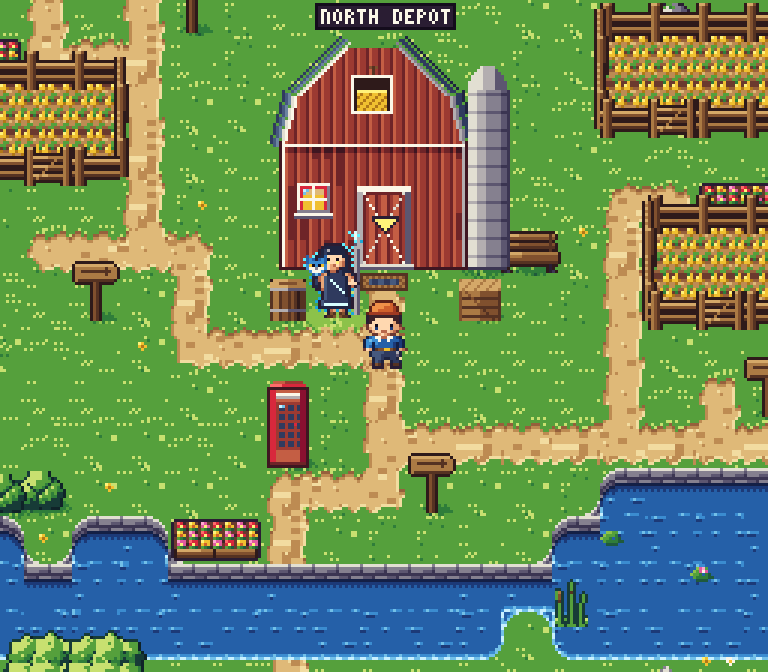
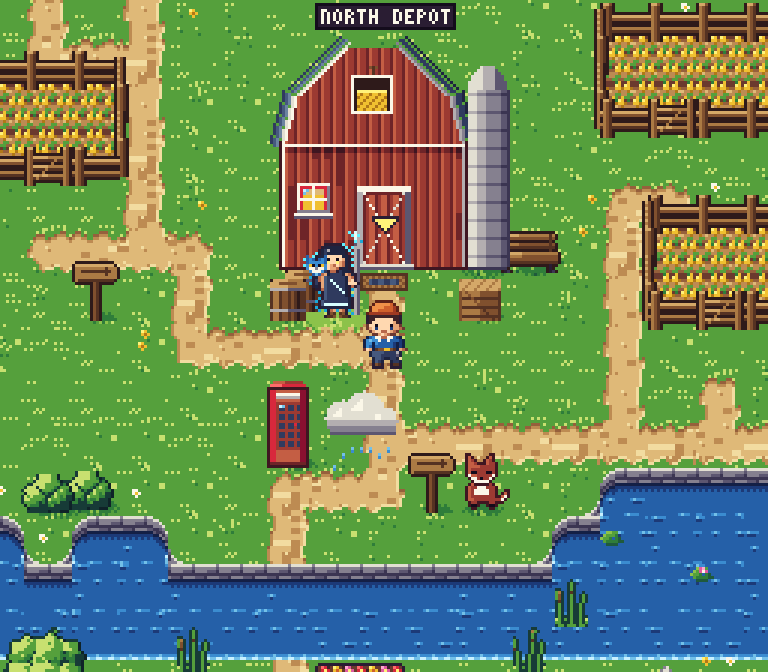
Overworld: path verges, paired barrels, no props on water banks, one signpost per stretch, weather clear of doors
Tufts and flowers along the path verges; barrels stand in pairs; no prop right above water or a
field; signposts at least ten steps apart; the rain cloud keeps six steps from every door (it hung
over a doorway in the fixture world; a test now checks it in every theme). Overworld notes: the
dressing, collisions, portraits, frame times and the critique rounds. Every screenshot regenerated.

diff --git a/web/src/game/world/gen.ts b/web/src/game/world/gen.ts
@@ -531,7 +531,7 @@ export class WorldMap {
     const lmSpots = byVillage(6, spots);
     for (const l of set.landmarks)
       for (let n = 0; n < l.count * fill; n++) {
-        const s = lmSpots.find((q) => (l.sky ? this.freeRect(q.x, q.y, l.fw, l.fh, 0) : this.freeRect(q.x, q.y, l.fw, l.fh, 1)) && doorDist(q.x, q.y) >= 3);
+        const s = lmSpots.find((q) => (l.sky ? this.freeRect(q.x, q.y, l.fw, l.fh, 0) : this.freeRect(q.x, q.y, l.fw, l.fh, 1)) && doorDist(q.x, q.y) >= (l.sky ? 6 : 3)); // weather keeps clear of the doorways
         if (!s) break;
         const ax = s.x * TILE + l.fw * 8, ay = (s.y + l.fh) * TILE - 1;
         if (l.sky) {
@@ -661,14 +661,16 @@ export class WorldMap {
     const { rx, w, h, R, doors, theme, fronts, fill, seed } = c;
     const x0 = rx + BORDER + 1, x1 = rx + w - BORDER - 1, y0 = BORDER + 1, y1 = h - BORDER - 1;
     const isPath = (x: number, y: number) => this.at(x, y) === 'P' || this.at(x, y) === 'B';
-    // a tile right above a field holds the field's top fence
-    const room = (x: number, y: number) => this.free(x, y) && this.at(x, y + 1) !== 'F' && this.at(x, y + 1) !== 'C';
+    // a tile right above a field holds the field's top fence, one right above water its bank
+    const room = (x: number, y: number) => this.free(x, y) && !['F', 'C', 'W'].includes(this.at(x, y + 1) ?? 'G');
     const awayFromDoors = (x: number, y: number) => !doors.some((d) => Math.abs(x - d.x) <= 2 && y >= d.y - 1 && y <= d.y + 3);
     const placed: Pos[] = [];
     const spaced = (x: number, y: number, d: number) => !placed.some((p) => Math.abs(p.x - x) <= d && Math.abs(p.y - y) <= d);
     const prop = (sprite: string, x: number, y: number, shadow?: readonly [number, number, number, number], dx = 8, dy = 14) => {
       this.flag(x, y, SOLID | RESERVED);
       placed.push({ x, y });
+      // barrels stand in pairs, the second a step behind
+      if (sprite === 'barrel') this.objects.push({ sprite, x: x * TILE + dx + 5, y: y * TILE + dy - 3, kind: 'prop' });
       this.objects.push({ sprite, x: x * TILE + dx, y: y * TILE + dy, kind: sprite === 'bush' ? 'tree' : 'prop', ...(shadow ? { shadow } : {}) });
     };
     const decor = (sprite: string, x: number, y: number, k: number) => {
@@ -745,10 +747,11 @@ export class WorldMap {
     // Signposts at junctions: a path tile with three or four path neighbours gets one on a free corner beside it.
     const junctions = shuffled(20, (x, y) => this.at(x, y) === 'P' && STEPS.filter((s) => isPath(x + s.x, y + s.y)).length >= 3 && awayFromDoors(x, y));
     let signs = 0;
+    const signAt: Pos[] = [];
     for (const j of junctions) {
-      if (signs >= 2 + 2 * fill) break;
-      const at = [[-1, -1], [1, -1], [-1, 1], [1, 1]].map(([dx, dy]) => ({ x: j.x + dx!, y: j.y + dy! })).find((q) => room(q.x, q.y) && spaced(q.x, q.y, 3));
-      if (at) prop('signpost', at.x, at.y, [2, 0, 5, 2]), signs++;
+      if (signs >= 1 + fill) break;
+      const at = [[-1, -1], [1, -1], [-1, 1], [1, 1]].map(([dx, dy]) => ({ x: j.x + dx!, y: j.y + dy! })).find((q) => room(q.x, q.y) && spaced(q.x, q.y, 3) && !signAt.some((p) => Math.abs(p.x - q.x) + Math.abs(p.y - q.y) < 10));
+      if (at) signAt.push(at), prop('signpost', at.x, at.y, [2, 0, 5, 2]), signs++;
     }
     // Benches on the grass beside a straight east-west path, facing it.
     let benches = 0;
@@ -825,6 +828,12 @@ export class WorldMap {
           placed.push({ x, y });
         }
       }
+    // Path verges: tufts and flowers in the grass along the paths, as the art direction lets the grass lean over them.
+    const verge = groundTheme(theme).flora;
+    for (let y = y0; y < y1; y++)
+      for (let x = x0; x < x1; x++)
+        if (this.free(x, y) && STEPS.some((st) => isPath(x + st.x, y + st.y)) && R(x, y, 55) < 0.3)
+          decor(R(x, y, 56) < 0.5 ? 'tuft' : verge[Math.floor(R(x, y, 57) * verge.length)]!, x, y, 58);
     // Wildflower patches: a few tiles of one flower, thick, as the art direction scatters them by the paths.
     const flora = groundTheme(theme).flora.filter((f) => f !== 'stone' && f !== 'tuft');
     let patches = 0;

diff --git a/web/tests/world-gen.test.ts b/web/tests/world-gen.test.ts
@@ -372,3 +372,18 @@ describe('a stream', () => {
     expect(wide).toBeGreaterThan(0);
   });
 });
+
+describe('weather', () => {
+  it('the rain cloud never hangs over a doorway (the fixture world in every theme)', async () => {
+    const { default: world } = await import('../../fixtures/world.json');
+    for (const theme of ['debug', 'industrial-robotic', 'farm', 'business', 'pagodas-nature', null]) {
+      const m = new WorldMap(world.sites.map(({ site: s }) => ({ id: s.id, name: s.name, latitude: s.latitude, longitude: s.longitude, theme: theme ?? s.iso_theme, country: 'GB' })));
+      const clouds = m.objects.filter((o) => o.sprite === 'rain_cloud');
+      expect(clouds.length).toBeGreaterThan(0);
+      // the cloud is drawn 28 px above its footprint's bottom edge; its footprint is two tiles wide
+      for (const o of clouds)
+        for (const d of m.doors)
+          expect(Math.max(Math.abs(Math.floor(o.x / 16) - d.x), Math.abs(Math.floor((o.y + 28) / 16) - d.y)), `${theme}: cloud near door ${d.siteId}`).toBeGreaterThanOrEqual(5);
+    }
+  });
+});

diff --git a/web/art/overworld/README.md b/web/art/overworld/README.md
@@ -77,16 +77,32 @@ Same sites, same map, in any order (`web/tests/world-gen.test.ts`).
    Longitudes wrap at the 180th meridian. Sites without GPS stand in a square block below the others. Then each
    site, nearest the centre first, takes the free place nearest its own, so buildings never overlap, however many
    sites share one point (200 sites at one point make a region about 200 tiles square).
-3. **Filling the space.** A forest border; a canal with a sandy bank, a moored boat and reeds (or a pond); paths
-   joining every site of the region (a minimum spanning tree over the doors, routed around buildings, crossing water
-   straight as a bridge); fenced fields; the country's landmarks and villagers; groves and single trees; flowers.
+3. **Filling the space** (design rule 18: no empty world; the bar is the art direction's scene). A forest border; a
+   canal with a sandy bank, a moored boat and reeds, or a pond with a stream running from it out under the forest
+   (east-west, so paths cross it on bridges), with reeds and lily pads; both a few rows below the first building, so
+   the village has its water. Paths joining every site of the region (a minimum spanning tree over the doors, routed
+   around buildings, crossing water straight as a bridge). Fenced fields of four to six by two or three tiles, each
+   with a gate in its bottom fence. The country's landmarks and villagers. Then the dressing:
+   - side paths from the network to the front of every landmark and to every field gate, and two lanes that leave
+     the network for the woods, so the paths branch and meet;
+   - a signpost at a junction, benches beside straight stretches of path, short fences along paths;
+   - a yard in front of each building in its theme (crates, paired barrels, a cooling unit, a cable drum, a bench, a
+     rock), on the front corners and against the east wall;
+   - two-tile flower beds beside paths (warm colours; cool ones in the business and pagoda themes), rock clusters
+     with small stones, clumps of bushes with flowers at their feet, patches of wildflowers;
+   - tufts and flowers along the path verges; groves; single trees and pairs at uneven gaps, some with a bush.
+
+   Fields, landmarks and the dressing go nearest the buildings first (a sweep from the doors), so the village round
+   each door is the busiest part, and a steady scatter of rocks, bushes and flowers keeps the rest from going bare.
    How much goes down scales with the region's area.
 4. **Distant regions** sit side by side on one map, but no path joins them and the camera never leaves the player's
    region. Each region of a world with more than one has an **airfield pad, a placeholder**: a label over it names
    where it goes, and stepping on it takes the player to the next region's pad, with a card saying where, until
    flights replace it. A canal that no path crossed gets one crossing, so both banks can be reached.
-5. **Collisions.** Buildings (except the door tile), water (except bridges), trees, fields with their fences,
-   landmarks, villagers and the guide block the way. Walking onto a door enters that site's first room through the
+5. **Collisions.** Buildings (except the door tile), water (except bridges), trees, fields with their fences and
+   gates, landmarks, villagers, the guide and every prop (signposts, benches, fences, yards, beds, rocks, bushes)
+   block the way. A prop never stands on a path, a bridge, a door or the tiles kept free in front of a door, so every
+   door stays reachable along the paths (`web/tests/world-gen.test.ts` walks it in every country set and theme). Walking onto a door enters that site's first room through the
    game shell's scene switcher; leaving puts the player on the tile in front of the same door.
 6. **A saved place after an edit in NetBox.** Adding, moving or deleting a site, or changing its GPS or country,
    regenerates the map. A saved tile is kept only if the player can walk on from it to the region's doors (a reach
@@ -126,25 +142,36 @@ The eaves cast a two-pixel shadow on the wall below them (one ramp step darker),
 Ilatea's, Byte's and Nocti's dialogue portraits start as hand-written SVG at 768 x 768 (`../portraits/*.svg`, from the
 traits in `docs/art/guide-ilatea.md`), painted the way a 16-bit portrait is: flat tones (lit, base, shade) with a dark
 outline, no soft gradients, framed close so the face fills the small sizes (Ilatea's scene is scaled 1.35x about her
-face). `portrait.mjs` rasterises each in headless chromium, downscales it with an area filter (exact box averages, 12x
-to 64 x 64 and 8x to 96 x 96), maps it to the palette with no dither (ordered dither was tried and is shown in the
-sheet: it turned the skin and the background into noise at this size), using only the ramps the portrait is painted
-with (a skin tone never lands on path earth), then applies the hand clean-up pass: pixel edits stored as data in
-`../portraits/cleanup/<who>-<size>.txt`, one file for every portrait at both sizes, each step headed by its reason.
-The format is one edit per line: `x,y colour` sets a pixel, `x0,y0 x1,y1 colour` a rectangle, `## why` starts a step.
-The steps: Ilatea's brows as one level line, eyes as lash line / white corner / gold iris / black pupil, the smile with
-upturned corners, one clean line per silver strand, holes and grey specks out of the hair, the circlet gem as a lit
-diamond; the owls' eyes (iris ring, round pupil, glint), the beak as an outlined triangle with a sharp tip, clean disc
-rims and chevrons, the toes, Byte's sheen kept, Nocti's goggles and sceptical lid. `portrait-pipeline.png` shows source,
+face). Ilatea's hair is the guide's first variant: dark slate, flowing like streams of code, with a few silver strands
+like fibre (the art direction's own colours for it, the slate ramp), never purple.
+
+`portrait.mjs` rasterises each in headless chromium, downscales it with an area filter (exact box averages, 12x to
+64 x 64 and 8x to 96 x 96), maps it to the palette with no dither (ordered dither is shown in the sheet for
+comparison: it turns the skin and the background into noise at this size), using only the ramps the portrait is
+painted with (a skin tone never lands on path earth), then applies the hand clean-up pass: pixel edits stored as data
+in `../portraits/cleanup/<who>-<size>.txt`, one file for every portrait at both sizes, each step headed by its reason.
+The format is one edit per line: `x,y colour` sets a pixel, `x0,y0 x1,y1 colour` a rectangle, `x0,y0 x1,y1 a>b`
+recolours `a` to `b` inside a rectangle (or `x,y a>b` at one pixel), `## why` starts a step.
+
+The clean-up starts from the no-dither mapping and only makes single, deliberate marks; nothing is drawn across the
+skin. Ilatea: each eye a lash line with a dark wing at the outer corner, white corners, a gold iris round a black
+pupil with a glint on its upper left and the lower iris lit; level brows in the hair's dark slate; the nose as one
+shade step down its shaded side; a short smile with upturned corners; the face and neck outlined in dark skin instead
+of grey; grey specks where hair and skin blended taken out. The owls: flat face discs (no specks), round pupils with a
+glint, the sceptical lid of Nocti as one flat shape with one lit run, deliberate chevrons on the breast instead of
+grey halos, Byte's beak with a clean outline and his sheen kept as one cyan arc. `portrait-pipeline.png` shows source,
 raw downscale, both palette mappings and the cleaned result.
 
 ### Frame times
 
 `web/e2e/overworld.spec.ts` walks the player in the real game at 768 x 672 (3x) with chromium's CPU throttled 4x and
-writes `perf.json`: frame interval p95 17.3 ms (60 fps), composing a frame 2.2 ms median, 2.8 ms p95, no layout shift.
-A frame looks only at the objects near the camera (`web/tests/world-engine.test.ts` checks that a world of 200 sites
-looks at no more than a world of 3): in node, unthrottled, composing a frame of a 200-site world (122,000 objects)
-takes 0.6 ms median, as for 3 sites.
+writes `perf.json`: frame interval p95 17.5 ms (60 fps), composing a frame 2.6 ms median, 4.7 ms p95, no layout shift
+(composing p95 was 3.2 to 4.7 ms over five runs on the dressed map, 2.8 ms before it). The dressing added about a
+quarter more objects; a frame still looks only at the objects near the camera
+(`web/tests/world-engine.test.ts` checks that a world of 200 sites looks at no more than a world of 3): in node,
+unthrottled, composing a frame of a 200-site world (152,000 objects) takes 0.6 ms median, as for 3 sites. Building the
+map of that world takes about 1.4 s once at load (0.8 s before the dressing; the side paths and lanes are routed per
+region).
 
 ## Art notes
 
@@ -188,10 +215,33 @@ front-facing roof rule, fix them, render again.
    flowers; rounded water and sand shapes, path wobble and curved corners, the canal under the forest; stacked side
    fences; her eyes open (two rows of gold iris, a glint on each pupil), the forehead light on a slant.
 
+6. **Portraits from the no-dither mapping** (the six portraits at 10x with a pixel grid, beside the art direction's
+   portrait).
+   Weaknesses: the hand pass drew pale lines across Ilatea's face, brows and hair, so the cleaned portrait read worse
+   than the plain mapping, worst at 96; her hair was purple, outside the guide's "dark, with silver strands"; her face
+   had a grey outline; Nocti's face disc at 64 was speckled; the owls' pupils had no glint and Byte's discs a grey halo.
+   Fixes: every clean-up file rewritten from the no-dither result with single marks only (above); the hair repainted
+   in dark slate with short silver strands inside the mass instead of two long lines framing the face; a recolour
+   edit for sweeping specks out of an area without touching anything else.
+7. **Density** (every theme and country at 3x beside the art direction's scene; 6x crops of both).
+   Weaknesses: open grass with one landmark and one straight path; no water in view of any building; no fences or
+   gates except round the two fields; no props by the buildings; trees only in groves or alone at even gaps.
+   Fixes: the dressing (above), fields and water placed near the village, side paths and lanes, uneven tree spacing.
+8. **Density, second look** (same views).
+   Weaknesses: three signposts in one screen; flower beds sat on the water's bank and on the fields' top fences; the
+   flower bed was a thin strip; the stream left the pond with a notch of grass; stretches far from the doors were
+   still bare.
+   Fixes: at most one signpost per ten steps of path; no prop right above water or a field; a taller bed with a timber
+   edge and three rows of flowers; the pond's corner joins the stream; a steady scatter of rocks, bushes and flowers
+   away from the village; tufts and flowers along the path verges; barrels in pairs; the rain cloud, which now came
+   down near the village with the other landmarks and hung over a doorway, keeps six steps from any door.
+
 ## Where it still falls short
 
-- The rain cloud casts no shadow; landmarks are not joined to the paths; the tulip field's lower fence hides its last
-  row.
+- The rain cloud casts no shadow; the tulip field's lower fence hides its last row.
+- The ground is flat: the art direction's scene has a raised bank with a stone wall and steps, which the map has no
+  height for yet.
+- A big world takes longer to build at load since the dressing (see Frame times).
 - The pond's outline follows whole tiles, so its curves step at tile corners; the quay stones follow those steps.
 - Nothing points at buildings off screen yet (a map and a marker to the next small fix come with the quest log).
 - Phones get 1x (256 px wide) because only whole-number scales are used.

diff --git a/README.md b/README.md
@@ -110,7 +110,8 @@ Open `http://127.0.0.1:5173/` (no `?view=`) with `make dev` or `make dev-fixture
   (off by default).
 * **Overworld.** A 16-bit tile world (256 x 224, whole-number scaling) made from your sites: sites within 250 km of
   each other share a walkable region with compressed distances, joined by paths over bridges, filled with forest,
-  water, fields and the landmarks and animal villagers of the region's country (`Site.country`); one front-facing
+  water, fenced fields with gates, side paths to every landmark, signposts, benches, flower beds, rocks and shrubs,
+  and the landmarks and animal villagers of the region's country (`Site.country`); one front-facing
   building per site in its theme, labelled with the site's name. Distant regions are reached through an airfield pad
   (a placeholder until flights). How it is built: [`web/art/overworld/README.md`](web/art/overworld/README.md). Walk
   with the arrow keys or WASD (or your own keys), or tap/click where you want to go. Each door has a bobbing marker in
